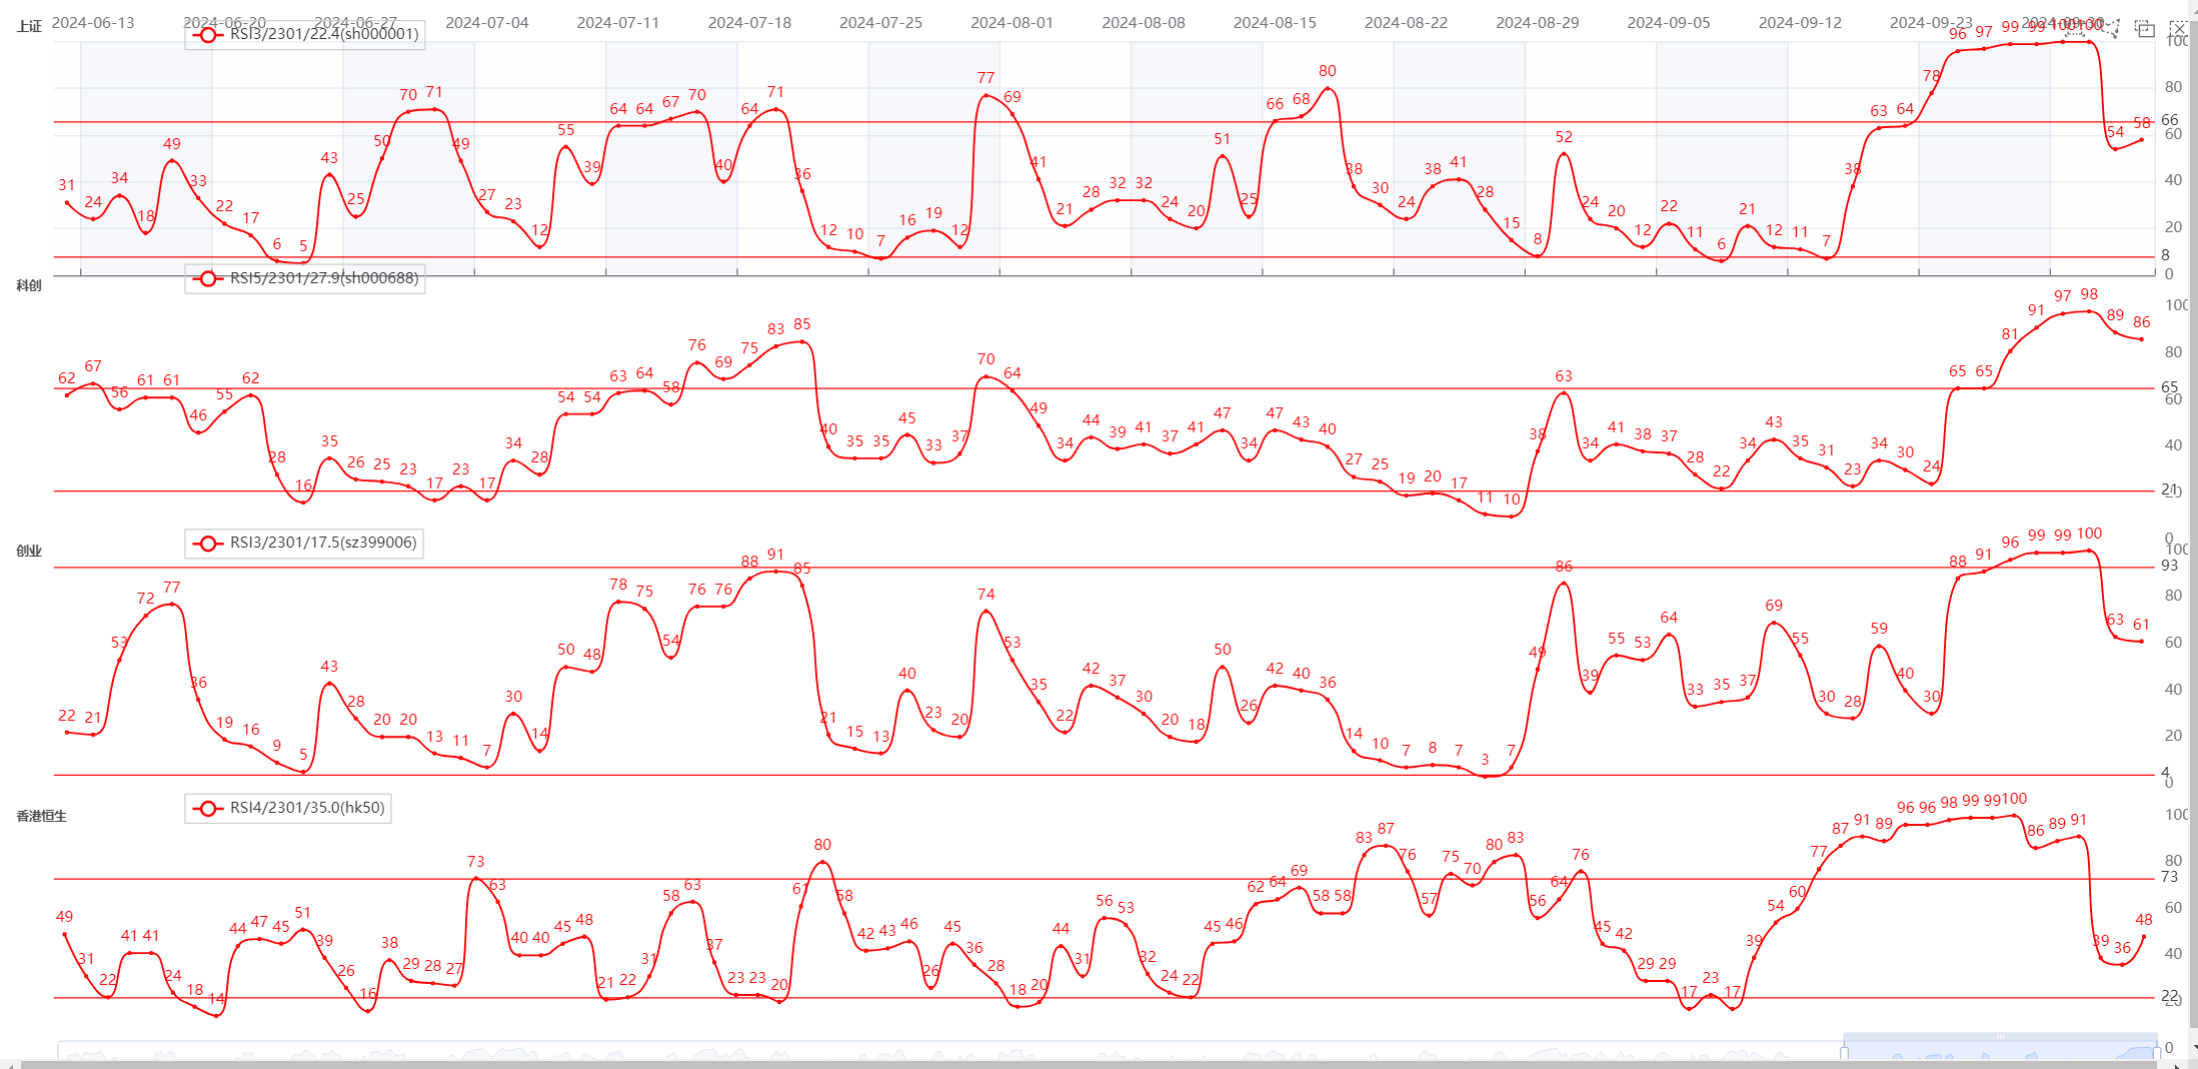
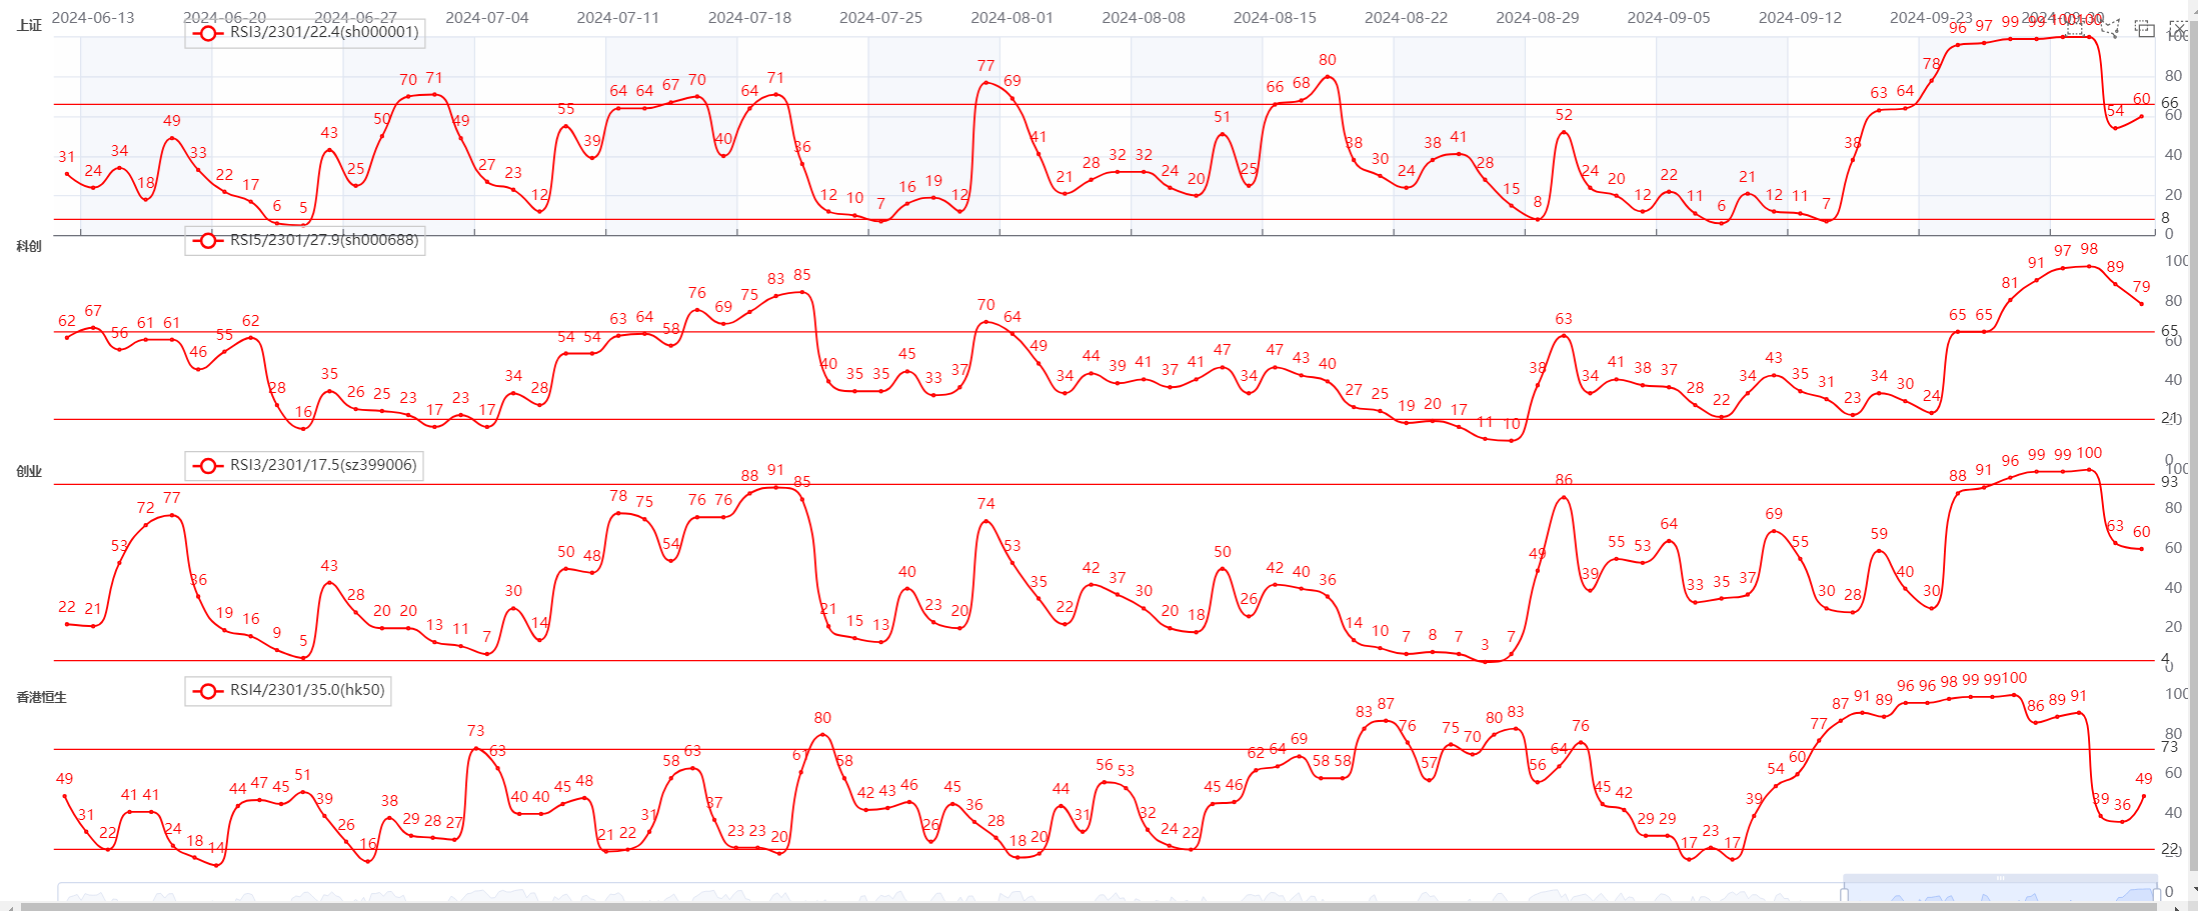
20241010

diff --git a/index_cn.html b/index_cn.html
@@ -13,11 +13,11 @@
     </style>
 </head>
 <body onresize="resizeFresh()"  >
-    <div id="f157d9eeb39d49c09c0e18510ed19422" class="chart-container" style="width:100%; height:100%; "></div>
+    <div id="593d5e545d1e438ebd2288369c8e56e2" class="chart-container" style="width:100%; height:100%; "></div>
     <script>
-        var chart_f157d9eeb39d49c09c0e18510ed19422 = echarts.init(
-            document.getElementById('f157d9eeb39d49c09c0e18510ed19422'), 'white', {renderer: 'canvas'});
-        var option_f157d9eeb39d49c09c0e18510ed19422 = {
+        var chart_593d5e545d1e438ebd2288369c8e56e2 = echarts.init(
+            document.getElementById('593d5e545d1e438ebd2288369c8e56e2'), 'white', {renderer: 'canvas'});
+        var option_593d5e545d1e438ebd2288369c8e56e2 = {
     "animation": true,
     "animationThreshold": 2000,
     "animationDuration": 1000,
@@ -2167,7 +2167,7 @@
                 ],
                 [
                     "2024-10-10",
-                    58.0
+                    60.0
                 ]
             ],
             "hoverAnimation": false,
@@ -4351,7 +4351,7 @@
                 ],
                 [
                     "2024-10-10",
-                    86.0
+                    79.0
                 ]
             ],
             "hoverAnimation": false,
@@ -6535,7 +6535,7 @@
                 ],
                 [
                     "2024-10-10",
-                    61.0
+                    60.0
                 ]
             ],
             "hoverAnimation": false,
@@ -9167,7 +9167,7 @@
                 ],
                 [
                     "2024-10-10",
-                    48.0
+                    49.0
                 ]
             ],
             "hoverAnimation": false,
@@ -12040,9 +12040,9 @@
         }
     ]
 };
-        chart_f157d9eeb39d49c09c0e18510ed19422.setOption(option_f157d9eeb39d49c09c0e18510ed19422);
+        chart_593d5e545d1e438ebd2288369c8e56e2.setOption(option_593d5e545d1e438ebd2288369c8e56e2);
             window.addEventListener('resize', function(){
-                chart_f157d9eeb39d49c09c0e18510ed19422.resize();
+                chart_593d5e545d1e438ebd2288369c8e56e2.resize();
             })
     </script>
     
